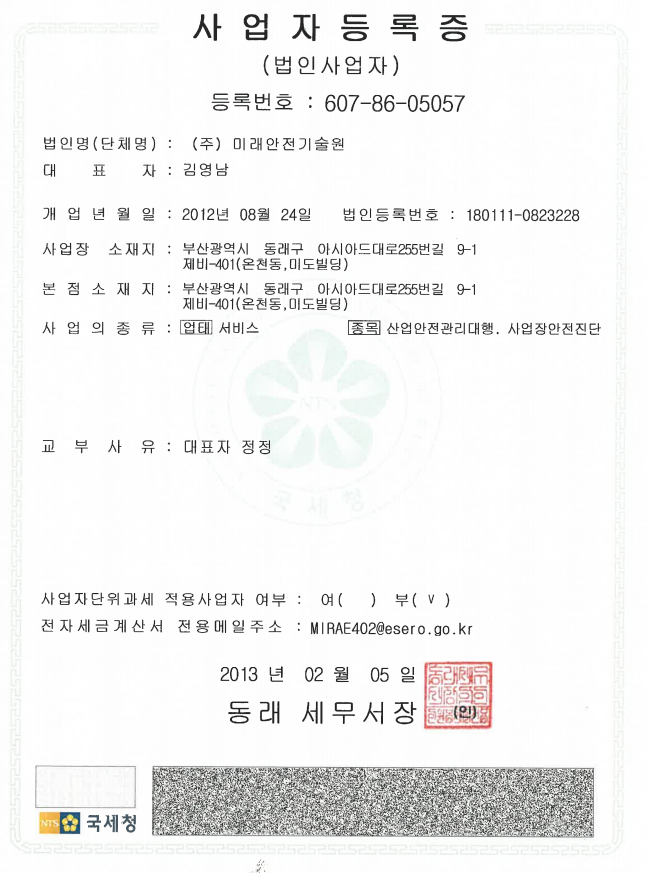
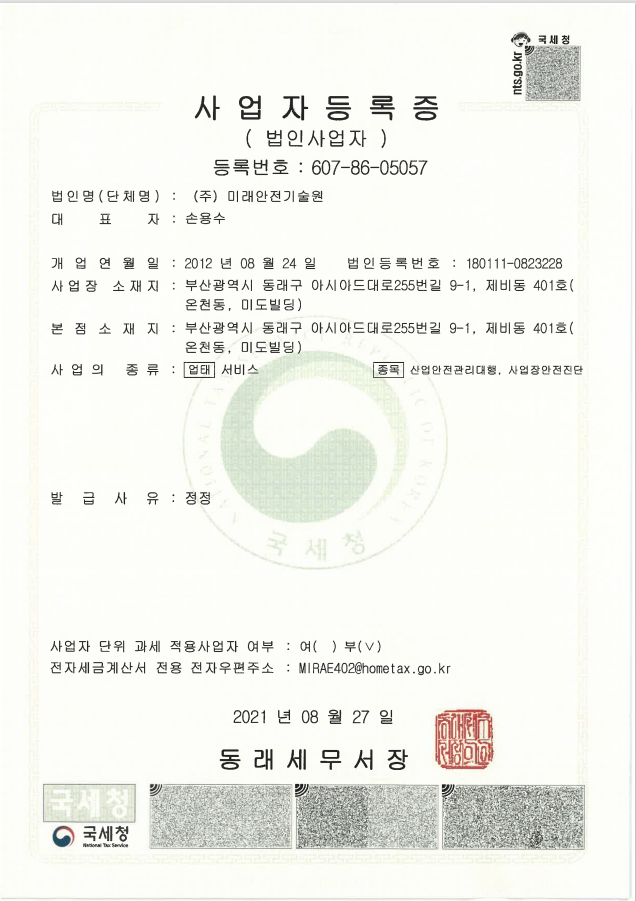
0921. welocomepage, organization update

diff --git a/src/pages/CompanyWelcomePage.vue b/src/pages/CompanyWelcomePage.vue
@@ -33,6 +33,51 @@
                     </div>
                 </div>
             </div>
+            <div class="content cate3" v-show="clickedIndex==2">
+                <div class="content-element">
+                    <div class="content-box">
+                        <p>
+                            <img class="content-image" src="/static/welcome/조직도.png">
+                        </p>
+                    </div>
+                </div>
+            </div>
+            <div class="content cate4" v-show="clickedIndex==3">
+                <div class="content-element">
+                    <div class="content-box">
+                        <p>
+                            <img class="content-image" src="/static/welcome/equipment/측정장비보유현황1.png">
+                        </p>
+                        <p>
+                            <img class="content-image" src="/static/welcome/equipment/측정장비보유현황2.png">
+                        </p>
+                        <p>
+                            <img class="content-image" src="/static/welcome/equipment/측정장비보유현황3.png">
+                        </p>
+                        <p>
+                            <img class="content-image" src="/static/welcome/equipment/측정장비보유현황4.png">
+                        </p>
+                        <p>
+                            <img class="content-image" src="/static/welcome/equipment/측정장비보유현황5.png">
+                        </p>
+                        <p>
+                            <img class="content-image" src="/static/welcome/equipment/측정장비보유현황6.png">
+                        </p>
+                        <p>
+                            <img class="content-image" src="/static/welcome/equipment/측정장비보유현황7.png">
+                        </p>
+                        <p>
+                            <img class="content-image" src="/static/welcome/equipment/측정장비보유현황8.png">
+                        </p>
+                        <p>
+                            <img class="content-image" src="/static/welcome/equipment/측정장비보유현황9.png">
+                        </p>
+                        <p>
+                            <img class="content-image" src="/static/welcome/equipment/측정장비보유현황10.png">
+                        </p>
+                    </div>
+                </div>
+            </div>
         </div>
     </div>
 </template>
@@ -42,7 +87,7 @@
         name:'CompanyWelcomePage',
         data(){
             return{
-                AllCategory:['사업자등록증','지정서'],
+                AllCategory:['사업자등록증','지정서','조직도','보유 장비'],
                 clickedIndex:0,
                 
             }

diff --git a/src/components/HelpdeskComponent.vue b/src/components/HelpdeskComponent.vue
@@ -14,8 +14,8 @@
         <h5>주요 임원</h5>
             <div class="members">
                 <div class="member">
-                    <p class="name">대표이사 김영남</p>
-                    <p> 010-8825-0045 </p>
+                    <p class="name">대표이사 손용수</p>
+                    <p> 010-8228-3651 </p>
                 </div>
                     
                 <div class="member">
@@ -24,8 +24,8 @@
                 </div>
                     
                 <div class="member">
-                    <p class="name">기술이사 손용수</p>
-                    <p> 010-8228-3651</p>
+                    <p class="name">기술이사 김영남</p>
+                    <p>010-8825-0045</p>
                 </div>
                     
                 <div class="member">
